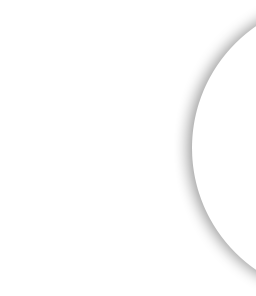
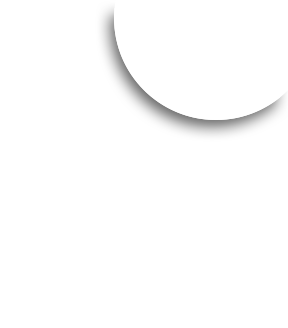
Add Fogs and Borders. Refactor createImage function.

Changed region(s): [[0.3438, 0.0304, 1.0, 0.9426]]

diff --git a/src/game/classes/Tile.js b/src/game/classes/Tile.js
@@ -2,7 +2,8 @@ import Animation from './Animation'
 import getPixelPosition from '../functions/getPixelPosition'
 import createImage from '../functions/createImage'
 import hex from '../functions/hex'
-import { NEIGHBOR_DIRECTIONS } from '../../constants'
+import getRotationBySide from '../functions/getRotationBySide'
+import { NEIGHBOR_DIRECTIONS, TILE_IMAGES } from '../../constants'
 
 class Tile {
   constructor({
@@ -34,108 +35,87 @@ class Tile {
 
     const position = getPixelPosition(x, z, scale)
 
-    this.image.background = createImage('hexagon', {
-      color: '#eee',
-      position,
-      scale,
-      stage: stages.backgrounds,
-    })
+    this.image.background = createImage('hexagon', stages.backgrounds)
+    this.image.background.tint = hex('#eee')
+
+    this.image.fog = []
+    for (let i = 0; i < 6; i++) {
+      this.image.fog[i] = createImage('fog', stages.fogs)
+      this.image.fog[i].rotation = getRotationBySide(i)
+      this.image.fog[i].visible = false
+    }
+
+    this.image.border = []
+    for (let i = 0; i < 6; i++) {
+      this.image.border[i] = createImage('border', stages.borders)
+      this.image.border[i].rotation = getRotationBySide(i)
+      this.image.border[i].visible = false
+    }
 
     if (capital) {
-      this.image.capital = createImage('capital', {
-        position,
-        scale,
-        stage: stages.capitals,
-      })
+      this.image.capital = createImage('capital', stages.capitals)
     }
 
     if (water) {
-      this.image.water = createImage('water', {
-        position,
-        scale,
-        stage: stages.waters,
-      })
+      this.image.water = createImage('water', stages.waters)
     }
 
     if (mountain) {
-      this.image.mountain = createImage('mountain', {
-        position,
-        scale,
-        stage: stages.mountains,
-      })
+      this.image.mountain = createImage('mountain', stages.mountains)
     }
 
     if (forest) {
-      this.image.forest = createImage('forest', {
-        position,
-        scale,
-        stage: stages.forests,
-      })
+      this.image.forest = createImage('forest', stages.forests)
     }
 
     if (owner) {
-      this.image.pattern = createImage('hexagon', {
-        color: owner.pattern,
-        position,
-        scale,
-        stage: stages.patterns,
-      })
+      this.image.pattern = createImage('hexagon', stages.patterns)
+      this.image.pattern.tint = hex(owner.pattern)
+    }
+
+    for (let i = 0; i < TILE_IMAGES.length; i++) {
+      const image = this.image[TILE_IMAGES[i]]
+
+      if (!image) continue
+
+      if (image instanceof Array) {
+        for (let j = 0; j < 6; j++) {
+          image[j].x = position.x
+          image[j].y = position.y
+          image[j].scale.x = scale
+          image[j].scale.y = scale
+        }
+      } else {
+        image.x = position.x
+        image.y = position.y
+        image.scale.x = scale
+        image.scale.y = scale
+      }
     }
   }
   setScale(scale) {
-    const { x, z } = this
-
     this.scale = scale
 
-    const position = getPixelPosition(x, z, scale)
+    const position = getPixelPosition(this.x, this.z, scale)
 
-    if (this.image.background) {
-      this.image.background.scale.x = scale
-      this.image.background.scale.y = scale
-      this.image.background.x = position.x
-      this.image.background.y = position.y
-    }
+    for (let i = 0; i < TILE_IMAGES.length; i++) {
+      const image = this.image[TILE_IMAGES[i]]
 
-    if (this.image.capital) {
-      this.image.capital.scale.x = scale
-      this.image.capital.scale.y = scale
-      this.image.capital.x = position.x
-      this.image.capital.y = position.y
-    }
+      if (!image) continue
 
-    if (this.image.water) {
-      this.image.water.scale.x = scale
-      this.image.water.scale.y = scale
-      this.image.water.x = position.x
-      this.image.water.y = position.y
-    }
-
-    if (this.image.mountain) {
-      this.image.mountain.scale.x = scale
-      this.image.mountain.scale.y = scale
-      this.image.mountain.x = position.x
-      this.image.mountain.y = position.y
-    }
-
-    if (this.image.forest) {
-      this.image.forest.scale.x = scale
-      this.image.forest.scale.y = scale
-      this.image.forest.x = position.x
-      this.image.forest.y = position.y
-    }
-
-    if (this.image.pattern) {
-      this.image.pattern.scale.x = scale
-      this.image.pattern.scale.y = scale
-      this.image.pattern.x = position.x
-      this.image.pattern.y = position.y
-    }
-
-    if (this.image.testSprite) {
-      this.image.testSprite.scale.x = scale
-      this.image.testSprite.scale.y = scale
-      this.image.testSprite.x = position.x
-      this.image.testSprite.y = position.y
+      if (image instanceof Array) {
+        for (let j = 0; j < 6; j++) {
+          image[j].x = position.x
+          image[j].y = position.y
+          image[j].scale.x = scale
+          image[j].scale.y = scale
+        }
+      } else {
+        image.x = position.x
+        image.y = position.y
+        image.scale.x = scale
+        image.scale.y = scale
+      }
     }
   }
   setOwner(owner) {
@@ -148,13 +128,15 @@ class Tile {
         this.stages.patterns.removeChild(this.image.pattern)
       }
 
-      this.image.pattern = createImage('hexagon', {
-        color: owner.pattern,
-        position: getPixelPosition(x, z, scale),
-        scale,
-        stage: stages.patterns,
-        alpha: 0,
-      })
+      const position = getPixelPosition(x, z, scale)
+
+      this.image.pattern = createImage('hexagon', stages.patterns)
+      this.image.pattern.tint = hex(owner.pattern)
+      this.image.pattern.x = position.x
+      this.image.pattern.y = position.y
+      this.image.pattern.scale.x = scale
+      this.image.pattern.scale.y = scale
+      this.image.pattern.alpha = 0
 
       this.animations.push(
         new Animation({
@@ -167,21 +149,19 @@ class Tile {
         })
       )
     }
+
+    this.updateBorders()
+    for (let i = 0; i < 6; i++) {
+      if (this.neighbors[i]) {
+        this.neighbors[i].updateBorders()
+      }
+    }
   }
   addHighlight() {
     this.image.background.tint = hex('#ddd')
   }
   clearHighlight() {
     this.image.background.tint = hex('#eee')
-  }
-  showTestSprite(texture) {
-    const position = getPixelPosition(this.x, this.z, this.scale)
-
-    this.image.testSprite = createImage(texture, {
-      position,
-      scale: this.scale,
-      stage: this.stages.mountains,
-    })
   }
   updateNeighbors(tiles) {
     let missingNeighbors = []
@@ -207,6 +187,26 @@ class Tile {
           this.neighbors[direction] = tile
           break
         }
+      }
+    }
+
+    this.updateFogs()
+  }
+  updateFogs() {
+    for (let i = 0; i < 6; i++) {
+      if (!this.neighbors[i]) {
+        this.image.fog[i].visible = true
+      } else {
+        this.image.fog[i].visible = false
+      }
+    }
+  }
+  updateBorders() {
+    for (let i = 0; i < 6; i++) {
+      if (this.neighbors[i] && this.neighbors[i].owner !== this.owner) {
+        this.image.border[i].visible = true
+      } else {
+        this.image.border[i].visible = false
       }
     }
   }

diff --git a/src/game/classes/Game.js b/src/game/classes/Game.js
@@ -42,6 +42,7 @@ class Game {
       .on('leaderboard', this.handleLeaderboardMessage)
       .on('time', this.handleTimeMessage)
       .on('connect_error', this.handleErrorMessage)
+      .on('disconnect', this.handleDisconnectMessage)
 
     this.pixi = createPixiApp(rootElement)
     this.loop = createGameLoop(this.update, this)
@@ -54,6 +55,8 @@ class Game {
       forests: new PIXI.Container(),
       patterns: new PIXI.Container(),
       backgrounds: new PIXI.Container(),
+      fogs: new PIXI.Container(),
+      borders: new PIXI.Container(),
     }
 
     this.pixi.stage.addChild(this.stages.backgrounds)
@@ -63,6 +66,8 @@ class Game {
     this.pixi.stage.addChild(this.stages.capitals)
     this.pixi.stage.addChild(this.stages.actions)
     this.pixi.stage.addChild(this.stages.waters)
+    this.pixi.stage.addChild(this.stages.borders)
+    this.pixi.stage.addChild(this.stages.fogs)
 
     document.addEventListener('mousewheel', this.handleWheelMove)
     document.addEventListener('mousemove', this.handleMouseMove)
@@ -264,6 +269,11 @@ class Game {
     }
 
     console.log(`Browser time difference: ${this.timeDiff}`)
+  }
+  handleDisconnectMessage = () => {
+    this.clear()
+    window.location.push('/')
+    console.log('Disconnected.')
   }
   cancelAlliance = playerId => {
     // todo: implement

diff --git a/src/game/functions/loadImages.js b/src/game/functions/loadImages.js
@@ -6,6 +6,8 @@ import hexagon from '../../images/white.png'
 import castle from '../../images/castle.png'
 import capital from '../../images/capital.png'
 import water from '../../images/water.png'
+import fog from '../../images/fog.png'
+import border from '../../images/border.png'
 
 const loadImages = () => {
   return new Promise(resolve => {
@@ -16,6 +18,8 @@ const loadImages = () => {
       .add('castle', castle)
       .add('capital', capital)
       .add('water', water)
+      .add('fog', fog)
+      .add('border', border)
       .load(resolve)
   })
 }

diff --git a/src/game/functions/createImage.js b/src/game/functions/createImage.js
@@ -1,21 +1,9 @@
 import * as PIXI from 'pixi.js'
 
-import hex from './hex'
-
-const createImage = (texture, { color, position, scale, stage, alpha = 1 }) => {
+const createImage = (texture, stage) => {
   const image = new PIXI.Sprite(PIXI.loader.resources[texture].texture)
 
-  if (color) {
-    image.tint = hex(color)
-  }
-
-  image.x = position.x
-  image.y = position.y
-  image.scale.x = scale
-  image.scale.y = scale
-  image.alpha = alpha
   image.anchor.set(0.5, 0.5)
-
   stage.addChild(image)
 
   return image

diff --git a/src/game/functions/getRotationBySide.js b/src/game/functions/getRotationBySide.js
@@ -1,0 +1,18 @@
+const getRotationBySide = side => {
+  switch (side) {
+    case 1:
+      return Math.PI * (1 / 3)
+    case 2:
+      return Math.PI * (2 / 3)
+    case 3:
+      return Math.PI
+    case 4:
+      return Math.PI * (-2 / 3)
+    case 5:
+      return Math.PI * (-1 / 3)
+    default:
+      return 0
+  }
+}
+
+export default getRotationBySide

diff --git a/src/constants.js b/src/constants.js
@@ -1,5 +1,15 @@
 // TILE
 export const TILE_RADIUS = 73
+export const TILE_IMAGES = [
+  'forest',
+  'mountain',
+  'capital',
+  'water',
+  'background',
+  'pattern',
+  'fog',
+  'border',
+]
 export const NEIGHBOR_DIRECTIONS = [
   { x: 1, z: -1 },
   { x: 1, z: 0 },
